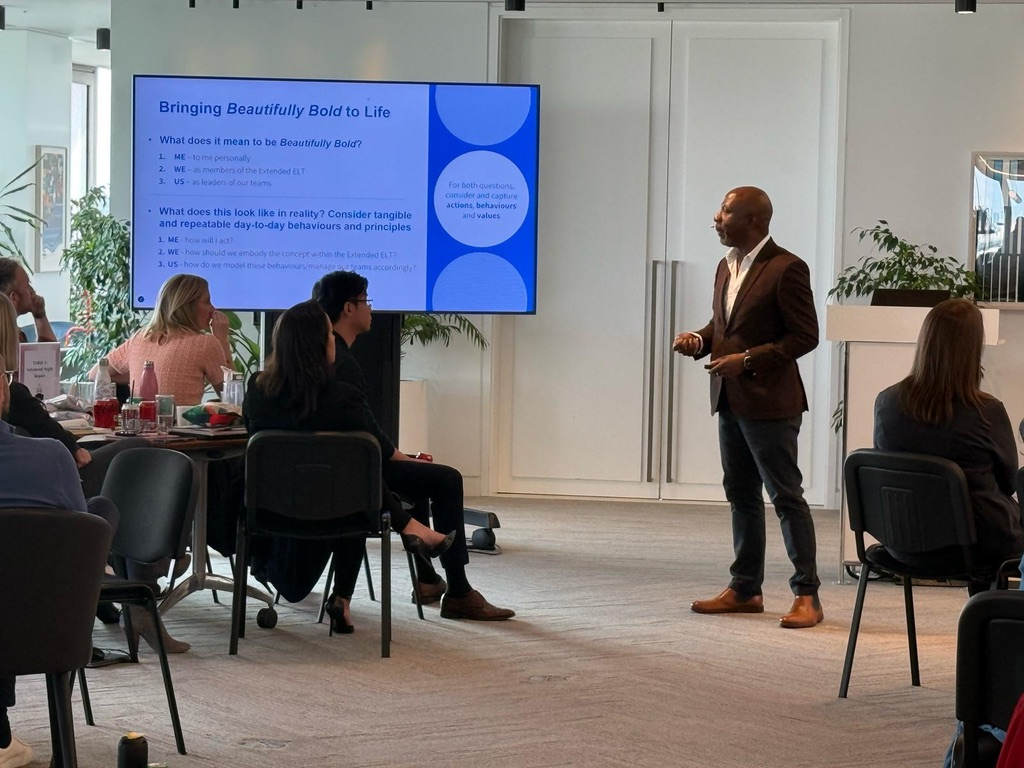
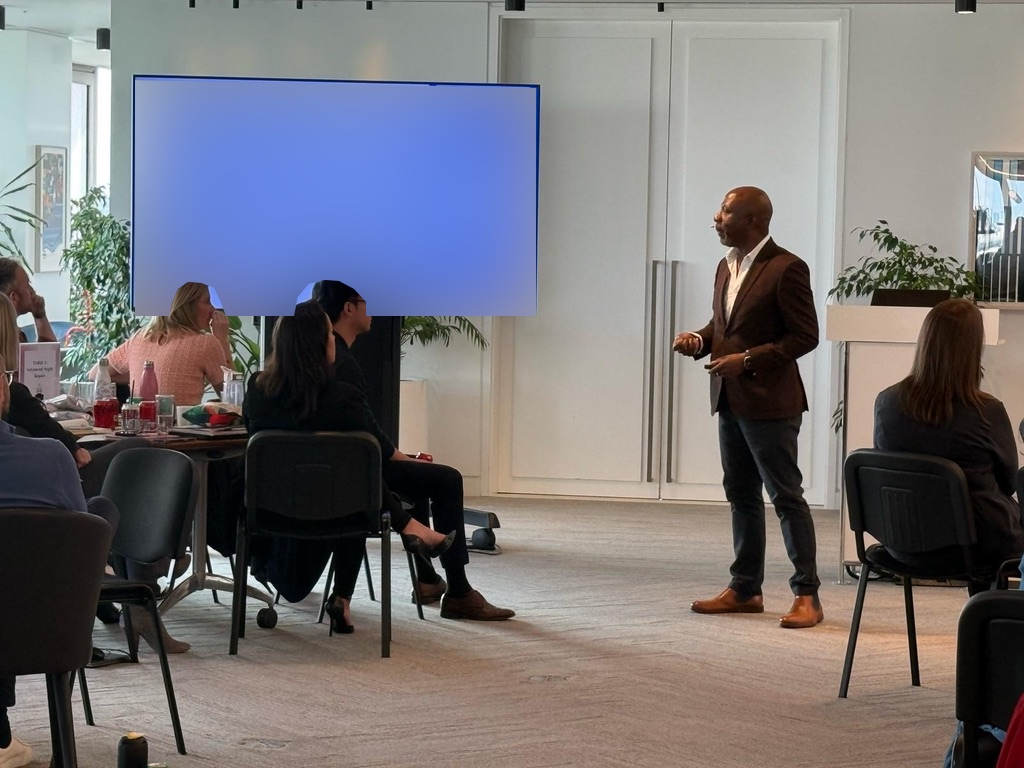
Obscure client slides and describe speaking and training

Changed region(s): [[0.125, 0.0938, 0.5312, 0.4375]]

diff --git a/speaking.html b/speaking.html
@@ -46,7 +46,7 @@
 <main id="main">
 <section class="hero"><div class="wrap speaker-hero"><div><p class="eyebrow">Speaking · Robert Stephenson</p><h1>Who do we become when something needs to change?</h1><p class="dek">Keynotes and reflective sessions exploring the stories we carry, the characters we become and the possibilities we haven’t yet considered.</p><a class="btn" href="https://calendly.com/robertstephenson/20-minute-chat">Book a Conversation →</a></div><div class="speaker-photo"><img src="hero-portrait.jpg" alt="Robert Stephenson seated in a warm, relaxed portrait" fetchpriority="high"></div></div></section>
 <section class="experience"><p class="credit">Speaking engagements include ACTO, WBECS, Optimus Coach Academy, Animas Centre for Coaching and Jenny Bird Executives.</p><h2>A conversation that keeps unfolding.</h2><p>A room can hold more than one story. About who we are. What is expected of us. What change requires. And what might happen if we tried something different.</p><p>I bring storytelling, humour, reflection and challenge together to help people explore those stories. My background in physical theatre and coaching shapes the experience: there is room for movement, playfulness, a different perspective and a question that stays with you afterwards.</p><p>For leadership gatherings, conferences, organisations and coaching communities, we begin with the people in your room and what matters to them.</p><p>Perhaps your leaders are navigating a transition, your team is caught in a familiar story, or your coaching community wants to reconnect with the work. These sessions create space to notice what is happening, explore another perspective and choose something to try afterwards.</p><a href="#themes">Explore the speaking themes ↓</a></section>
-<section class="experience" id="speaking-history"><p class="eyebrow" style="color:#79591f">Selected past engagements</p><h2>These conversations have a history.</h2><p>Story, identity and the way we make room for one another have been threads in my work for years. They have taken me into conference keynotes, practitioner gatherings and conversations about the future of coaching.</p><div style="border-top:1px solid var(--line-on-light);padding:24px 0"><p class="credit">2026 · Optimus Coach Academy · Igniting Change</p><h3 style="font-size:1.35rem;margin-bottom:14px">Tending the Flame: How We Stay Alive to the Work of Change</h3><p>A keynote exploring how we stay connected to the energy and possibility that bring us to the work of change.</p></div><div style="border-top:1px solid var(--line-on-light);padding:24px 0"><p class="credit">2022 · WBECS Full Summit</p><h3 style="font-size:1.35rem;margin-bottom:14px">Embodied Narrative: Our Bodies and Their Stories</h3><p>An experiential session bringing the body into narrative coaching through noticing, movement and reflection.</p></div><div style="border-top:1px solid var(--line-on-light);padding:24px 0"><p class="credit">2021 · Association of Coach Training Organizations (ACTO)</p><h3 style="font-size:1.35rem;margin-bottom:14px">Driving the Narrative: Creating New Stories to Promote Diversity and Inclusion in Coaching</h3><p>The opening keynote at ACTO’s virtual conference. An exploration of representation, the stories that shape who feels able to participate, and how we create spaces where people feel welcomed and valued.</p><a href="https://actoonline.org/2021-speakers/" target="_blank" rel="noopener">View the original conference listing ↗</a></div><p class="credit">Other engagements include the Hero’s Journey for Optimus Coach Academy and Animas Centre for Coaching, and narrative coaching for Jenny Bird Executives.</p><p><a href="/experience">Explore the wider experience behind the work →</a></p></section>
+<section class="experience" id="speaking-history"><p class="eyebrow" style="color:#79591f">Selected past engagements</p><h2>These conversations have a history.</h2><p>Story, identity and the way we make room for one another have been threads in my work for years. They have taken me into conference keynotes, practitioner gatherings and conversations about the future of coaching.</p><div style="border-top:1px solid var(--line-on-light);padding:24px 0"><p class="credit">2026 · Optimus Coach Academy · Igniting Change</p><h3 style="font-size:1.35rem;margin-bottom:14px">Tending the Flame: How We Stay Alive to the Work of Change</h3><p>A keynote exploring how we stay connected to the energy and possibility that bring us to the work of change.</p></div><div style="border-top:1px solid var(--line-on-light);padding:24px 0"><p class="credit">2022 · WBECS Full Summit</p><h3 style="font-size:1.35rem;margin-bottom:14px">Embodied Narrative: Our Bodies and Their Stories</h3><p>An experiential session bringing the body into narrative coaching through noticing, movement and reflection.</p></div><div style="border-top:1px solid var(--line-on-light);padding:24px 0"><p class="credit">2021 · Association of Coach Training Organizations (ACTO)</p><h3 style="font-size:1.35rem;margin-bottom:14px">Driving the Narrative: Creating New Stories to Promote Diversity and Inclusion in Coaching</h3><p>The opening keynote at ACTO’s virtual conference. An exploration of representation, the stories that shape who feels able to participate, and how we create spaces where people feel welcomed and valued.</p><a href="https://actoonline.org/2021-speakers/" target="_blank" rel="noopener">View the original conference listing ↗</a></div><div style="border-top:1px solid var(--line-on-light);padding:24px 0"><p class="credit">Estée Lauder · UK and Ireland extended executive team</p><h3 style="font-size:1.35rem;margin-bottom:14px">Developing new teams through narrative and belonging</h3><p>A combined speaking and training session exploring team identity, belonging and new ways of working together.</p></div><p class="credit">Other engagements include the Hero’s Journey for Optimus Coach Academy and Animas Centre for Coaching, and narrative coaching for Jenny Bird Executives.</p><p><a href="/experience">Explore the wider experience behind the work →</a></p></section>
 <section class="experience"><h2>Tending the Flame, in the room.</h2><div style="display:flex;flex-wrap:wrap;gap:20px"><figure style="margin:0;flex:1 1 240px;max-width:350px"><img src="speaking-optimus-portrait.jpeg" alt="Robert speaking on stage at the Optimus Coach Academy conference, gesturing with both hands" loading="lazy" style="width:100%;height:300px;object-fit:cover;object-position:center 20%"><figcaption class="credit">Tending the Flame · Optimus Coach Academy.</figcaption></figure><figure style="margin:0;flex:1 1 240px;max-width:350px"><img src="optimus-title-brighter.jpg" alt="Robert on stage beside the Tending the Flame keynote title at Optimus" loading="lazy" style="width:100%;height:300px;object-fit:cover"><figcaption class="credit">Optimus Coach Academy · Igniting Change.</figcaption></figure></div></section>
 <section class="talks" aria-labelledby="themes"><p class="eyebrow" style="color:#79591f">Four conversations to begin with</p><h2 id="themes">Speaking themes</h2>
 <div class="talk"><div><p class="eyebrow">01 · Aliveness and change</p><h3>Tending the Flame</h3><p class="subtitle">How we stay alive to the work of change</p></div><div><p>How do we ignite change in ourselves and others without losing the energy, passion and possibility that brought us to this work?</p><p>We explore what keeps us connected to our work, what can crowd out that connection, and how to tend what matters beyond the moment of inspiration.</p><p>Through stories, reflection and the invitation to notice, open and tend, people consider what they want to carry forward and one small step they could take.</p><p class="credit">Delivered as a keynote at Optimus Coach Academy’s Igniting Change conference.</p></div></div>
@@ -54,7 +54,7 @@
 <div class="talk"><div><p class="eyebrow">03 · Possibility and transition</p><h3>The Hero’s Journey</h3><p class="subtitle">Exploring our relationship with change</p></div><div><p>A call to something different. Reasons to stay where we are. A threshold we have not yet crossed.</p><p>The Hero’s Journey offers a metaphor for exploring uncertainty, the people who walk with us and what we discover along the way. We use it to ask what our current situation might be inviting, and which paths we want to explore.</p><p>For coaching communities, this includes our own development as coaches and the journeys we accompany others on.</p><p class="credit">Delivered for Optimus Coach Academy and Animas Centre for Coaching.</p></div></div><div class="talk"><div><p class="eyebrow">04 · Body and story</p><h3>Embodied Narratives</h3><p class="subtitle">Our bodies and their stories</p></div><div><p>What might we discover if we listened to more than the words?</p><p>An experiential session exploring the relationship between our physical experience and the stories we tell. Drawing on my training in Physical Intelligence, narrative coaching and my background in physical theatre, we use movement and guided reflection to notice what is happening in the body and become curious about the stories connected to it.</p><p>For coaches and practitioner communities interested in deepening their listening and exploring ways of working beyond words. The original session included a coaching demonstration and reflection on bringing the work into practice.</p><p class="credit">Presented at the WBECS Full Summit, 2022.</p></div></div></section>
 <section class="feedback"><div class="wrap"><p class="eyebrow" style="color:#79591f">From the room · Tending the Flame</p><blockquote>“The real shift happens when we move from what we SHOULD do to what we WANT to explore. It’s a reminder I’m taking into my own coaching, and my business too.”<cite>Tanzyla Tareen · Reflection shared on LinkedIn following the talk</cite></blockquote></div></section>
 <section class="experience"><h2>What might become possible in your room?</h2><p>There may be laughter, a moment of recognition or a question that unsettles a familiar answer. There is space to reflect on your own experience, rather than simply listen to mine.</p><p>We can explore what is missing. What we really want. Who we are being in relation to the challenge. And the different paths we might walk before committing to our next step.</p><p>The format and emphasis can be shaped around your audience and event. Our first conversation is about who is coming, what they are navigating and what you would like to make possible for them.</p></section>
-<section class="experience" id="leadership-in-the-room"><p class="eyebrow" style="color:#79591f">With leaders, in the room</p><h2>Space for a different conversation.</h2><p>Speaking and facilitation with Estée Lauder.</p><div class="speaking-gallery"><figure><img src="estee-lauder-speaking.jpeg" alt="Robert speaking with an Estée Lauder group, using an open-handed gesture as participants listen" width="1024" height="768" loading="lazy"><figcaption class="credit">Bringing ideas into conversation with the people in the room.</figcaption></figure><figure><img src="estee-lauder-conversation.jpeg" alt="Robert turning towards participants during an Estée Lauder session, with a presentation screen beside him" width="1024" height="768" loading="lazy"><figcaption class="credit">Speaking, listening and exploring together.</figcaption></figure></div></section>
+<section class="experience" id="leadership-in-the-room"><p class="eyebrow" style="color:#79591f">With leaders, in the room</p><h2>Space for a different conversation.</h2><p>Speaking and training with Estée Lauder’s UK and Ireland extended executive team, exploring narrative, belonging and new ways of working together.</p><div class="speaking-gallery"><figure><img src="estee-lauder-speaking.jpeg?v=protected-1" alt="Robert speaking with an Estée Lauder group, using an open-handed gesture as participants listen" width="1024" height="768" loading="lazy"><figcaption class="credit">Bringing ideas into conversation with the people in the room.</figcaption></figure><figure><img src="estee-lauder-conversation.jpeg?v=protected-1" alt="Robert turning towards participants during an Estée Lauder session, with a presentation screen beside him" width="1024" height="768" loading="lazy"><figcaption class="credit">Speaking, listening and exploring together.</figcaption></figure></div></section>
 <section class="feedback"><div class="wrap"><blockquote>“Robert’s fantastic session in particular prompted me to think about where I am now in my coaching journey.”<cite>Merrisha Gordon · Reflection shared on LinkedIn following Tending the Flame</cite></blockquote></div></section>
 <section class="experience" id="listen"><p class="eyebrow" style="color:#79591f">Conversations beyond the stage</p><h2>Hear the thinking in conversation.</h2><p>Some of this work happens with an audience. Some of it unfolds with another person, following a question together. These are a few ways to get a feel for how I think and listen.</p><div style="border-top:1px solid var(--line-on-light);padding:28px 0"><p class="credit">Guest conversation · Coaches Rising · Episode 83 · 2021</p><h3 style="font-size:1.4rem;margin-bottom:16px">Cross-disciplinary Approaches in Narrative Coaching</h3><p>With Joel Monk, on the stories we live inside, what happens when they break down, and listening beyond words.</p><a href="https://www.coachesrising.com/podcast/cross-disciplinary-approaches-in-narrative-coaching-with-robert-stephenson/" target="_blank" rel="noopener">Listen on Coaches Rising ↗</a></div><div style="border-top:1px solid var(--line-on-light);padding:28px 0"><p class="credit">Guest conversation · The Transformative Leader Podcast · Episode 160</p><h3 style="font-size:1.4rem;margin-bottom:16px">Mastering the Craft of Coaching</h3><p>With Amir Ghannad, exploring the art of listening, the difference between coaching and other forms of support, and how we help the people who look to us for guidance.</p><a href="https://theghannadgroup.com/podcast-episodes/ttlpodcast-160" target="_blank" rel="noopener">Listen to the interview ↗</a></div><div style="border-top:1px solid var(--line-on-light);padding:28px 0"><p class="credit">A conversation I hosted · Coaching Uncaged · 2020</p><h3 style="font-size:1.4rem;margin-bottom:16px">Exploring Narrative Coaching and the Power of Stories</h3><p>My conversation with Dr David Drake, founder of Narrative Coaching, about story, silence, serious play and the space we create for someone else’s discovery.</p><a href="https://www.animascoaching.com/podcast/episode/exploring-narrative-coaching-and-the-power-of-stories-a-discussion-with-dr-david-drake/" target="_blank" rel="noopener">Listen to the conversation ↗</a></div><p><a href="/experience#conversations">Explore more podcasts and conversations →</a></p><p><a href="/ideas#published">Read published writing and contributions →</a></p></section><section class="closing"><div class="wrap"><p class="eyebrow">Speaking enquiries</p><h2>Bring the conversation into your room.</h2><p>If you are bringing people together around leadership, identity or change, let’s explore what we could create together.</p><a class="btn" href="https://calendly.com/robertstephenson/20-minute-chat">Book a Conversation →</a><p>A 20-minute conversation about your event, your audience and whether we are a good fit.</p><p>It helps to know your proposed date, location or online format, who will be in the room and what you hope they will take away. You do not need to have everything worked out before getting in touch.</p><a class="closing-link" href="mailto:robert@robertstephensoncoaching.com?subject=Speaking%20enquiry">Prefer email? Enquire about speaking</a></div></section>
 </main><footer><div class="wrap footer-inner"><span>© <span id="year"></span> Robert Stephenson</span><span><a href="/ideas">Ideas</a> · <a href="/team-coaching">Team Coaching</a> · <a href="/experience">Experience</a> · <a href="/ways-of-working">Work With Me</a> · <a href="/privacy">Privacy</a></span></div></footer>
